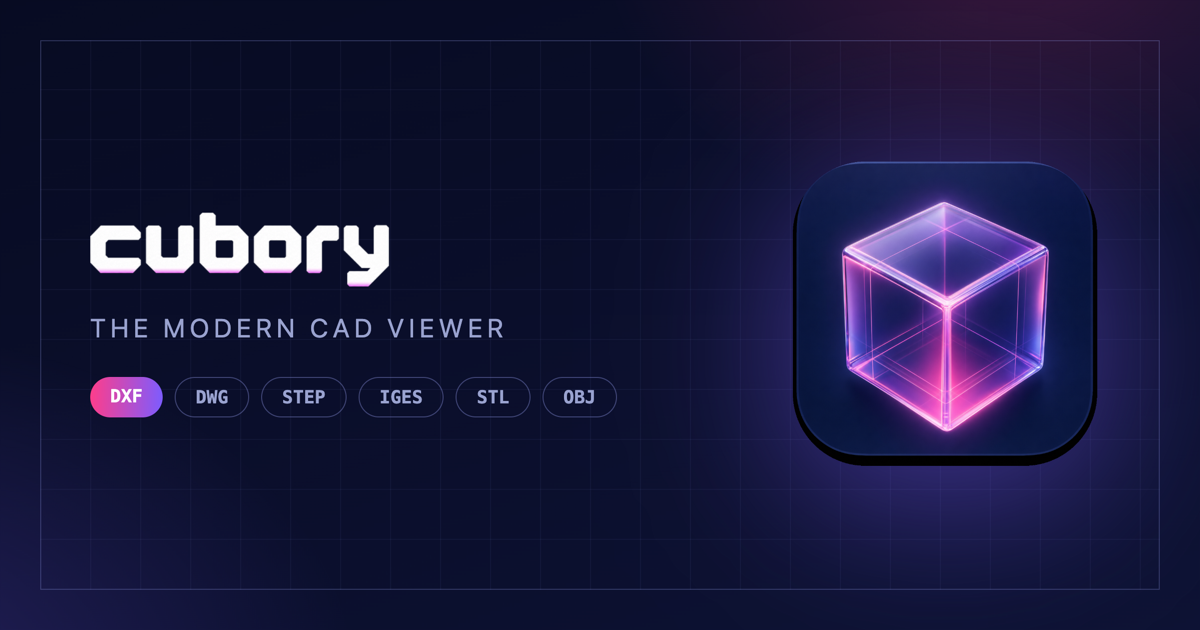
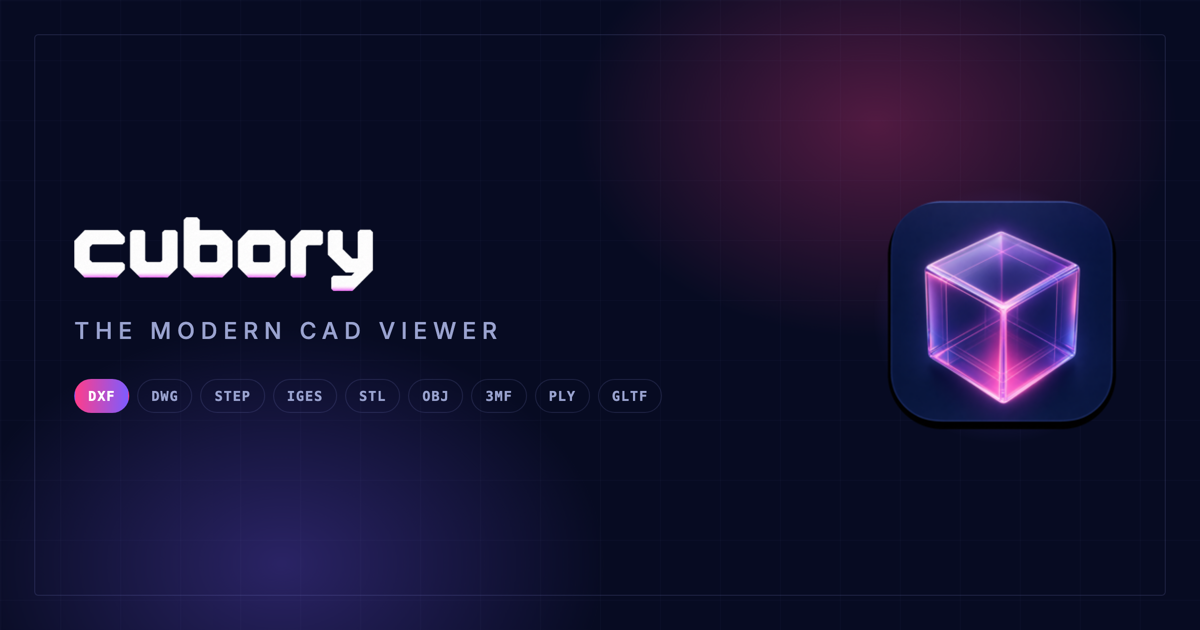
Vorschaugrafik: Formatliste nachziehen
og.png nannte noch DXF, DWG, STEP, IGES, STL und OBJ - 3MF, PLY und GLTF
fehlten seit dem Ausbau der Formate. Das Bild erscheint bei jedem geteilten
Link und war damit die sichtbarste veraltete Stelle.

Neu aufgebaut aus den vorhandenen Bausteinen (Wortmarke, Icon, Schriften,
Farben der Startseite), Layout wie zuvor, alle neun Formate in einer Reihe.

Die Vorlage liegt als scripts/og-image.html im Repo, damit das Bild beim
nächsten Format nicht wieder still veraltet; wie es erzeugt wird, steht
oben in der Datei.

diff --git a/scripts/og-image.html b/scripts/og-image.html
@@ -1,0 +1,66 @@
+<!doctype html>
+<!--
+  Vorlage für website/assets/og.png - das Bild, das bei geteilten Links
+  erscheint. Als Vorlage abgelegt, weil die Formatliste darin sonst veraltet,
+  ohne dass es jemandem auffällt.
+
+  Neu erzeugen (aus dem Projektverzeichnis):
+    cp scripts/og-image.html website/__og.html
+    (cd website && python3 -m http.server 8099 &)
+    node -e "const {chromium}=require('playwright-core');(async()=>{const b=await chromium.launch();\
+      const p=await b.newPage({viewport:{width:1200,height:630},deviceScaleFactor:2});\
+      await p.goto('http://127.0.0.1:8099/__og.html');await p.waitForTimeout(1500);\
+      await p.screenshot({path:'website/assets/og.png'});await b.close();})()"
+    sips -Z 1200 website/assets/og.png
+    rm website/__og.html
+-->
+<html><head><meta charset="utf-8">
+<link rel="stylesheet" href="/assets/fonts/fonts.css">
+<style>
+  :root{--bg0:#070b22;--bg1:#0a0e2a;--border:rgba(160,170,255,.14);
+        --text:#eef0ff;--muted:#9aa3d0;--a1:#ff3d8a;--a2:#7c5cff}
+  *{margin:0;padding:0;box-sizing:border-box}
+  body{width:1200px;height:630px;overflow:hidden;background:var(--bg0);
+       font-family:'Inter',system-ui,sans-serif;position:relative}
+  /* Verlauf und Raster wie auf der Startseite */
+  .glow{position:absolute;inset:0}
+  .glow::before{content:'';position:absolute;right:-8%;top:-28%;width:70%;height:95%;
+    background:radial-gradient(closest-side,rgba(255,61,138,.30),transparent 72%)}
+  .glow::after{content:'';position:absolute;left:-14%;bottom:-42%;width:75%;height:105%;
+    background:radial-gradient(closest-side,rgba(124,92,255,.30),transparent 72%)}
+  .grid{position:absolute;inset:0;opacity:.5;
+    background-image:linear-gradient(rgba(160,170,255,.055) 1px,transparent 1px),
+                     linear-gradient(90deg,rgba(160,170,255,.055) 1px,transparent 1px);
+    background-size:60px 60px}
+  .frame{position:absolute;inset:34px;border:1px solid var(--border);border-radius:4px}
+  .inner{position:relative;height:100%;display:flex;align-items:center;
+         justify-content:space-between;padding:0 74px}
+  .wordmark{height:74px;display:block;margin-bottom:26px}
+  .claim{font-size:23px;font-weight:500;letter-spacing:.26em;color:var(--muted);
+         text-transform:uppercase;margin-bottom:34px}
+  .pills{display:flex;flex-wrap:nowrap;gap:8px}
+  .pill{font:600 13.5px ui-monospace,SFMono-Regular,Menlo,monospace;letter-spacing:.07em;
+        padding:8px 13px;border-radius:999px;border:1px solid var(--border);color:var(--muted);
+        white-space:nowrap}
+  .pill.on{background:linear-gradient(92deg,var(--a1),var(--a2));border-color:transparent;
+           color:#fff}
+  .iconwrap{position:relative;flex:0 0 auto}
+  .iconwrap::before{content:'';position:absolute;inset:-24%;border-radius:50%;
+    background:radial-gradient(closest-side,rgba(124,92,255,.42),transparent 70%)}
+  .icon{position:relative;width:248px;height:248px;display:block;border-radius:58px}
+</style></head>
+<body>
+  <div class="glow"></div><div class="grid"></div><div class="frame"></div>
+  <div class="inner">
+    <div>
+      <img class="wordmark" src="/assets/wordmark.png" alt="Cubory">
+      <p class="claim">The modern CAD viewer</p>
+      <div class="pills">
+        <span class="pill on">DXF</span><span class="pill">DWG</span><span class="pill">STEP</span>
+        <span class="pill">IGES</span><span class="pill">STL</span><span class="pill">OBJ</span>
+        <span class="pill">3MF</span><span class="pill">PLY</span><span class="pill">GLTF</span>
+      </div>
+    </div>
+    <div class="iconwrap"><img class="icon" src="/assets/icon.png" alt=""></div>
+  </div>
+</body></html>
